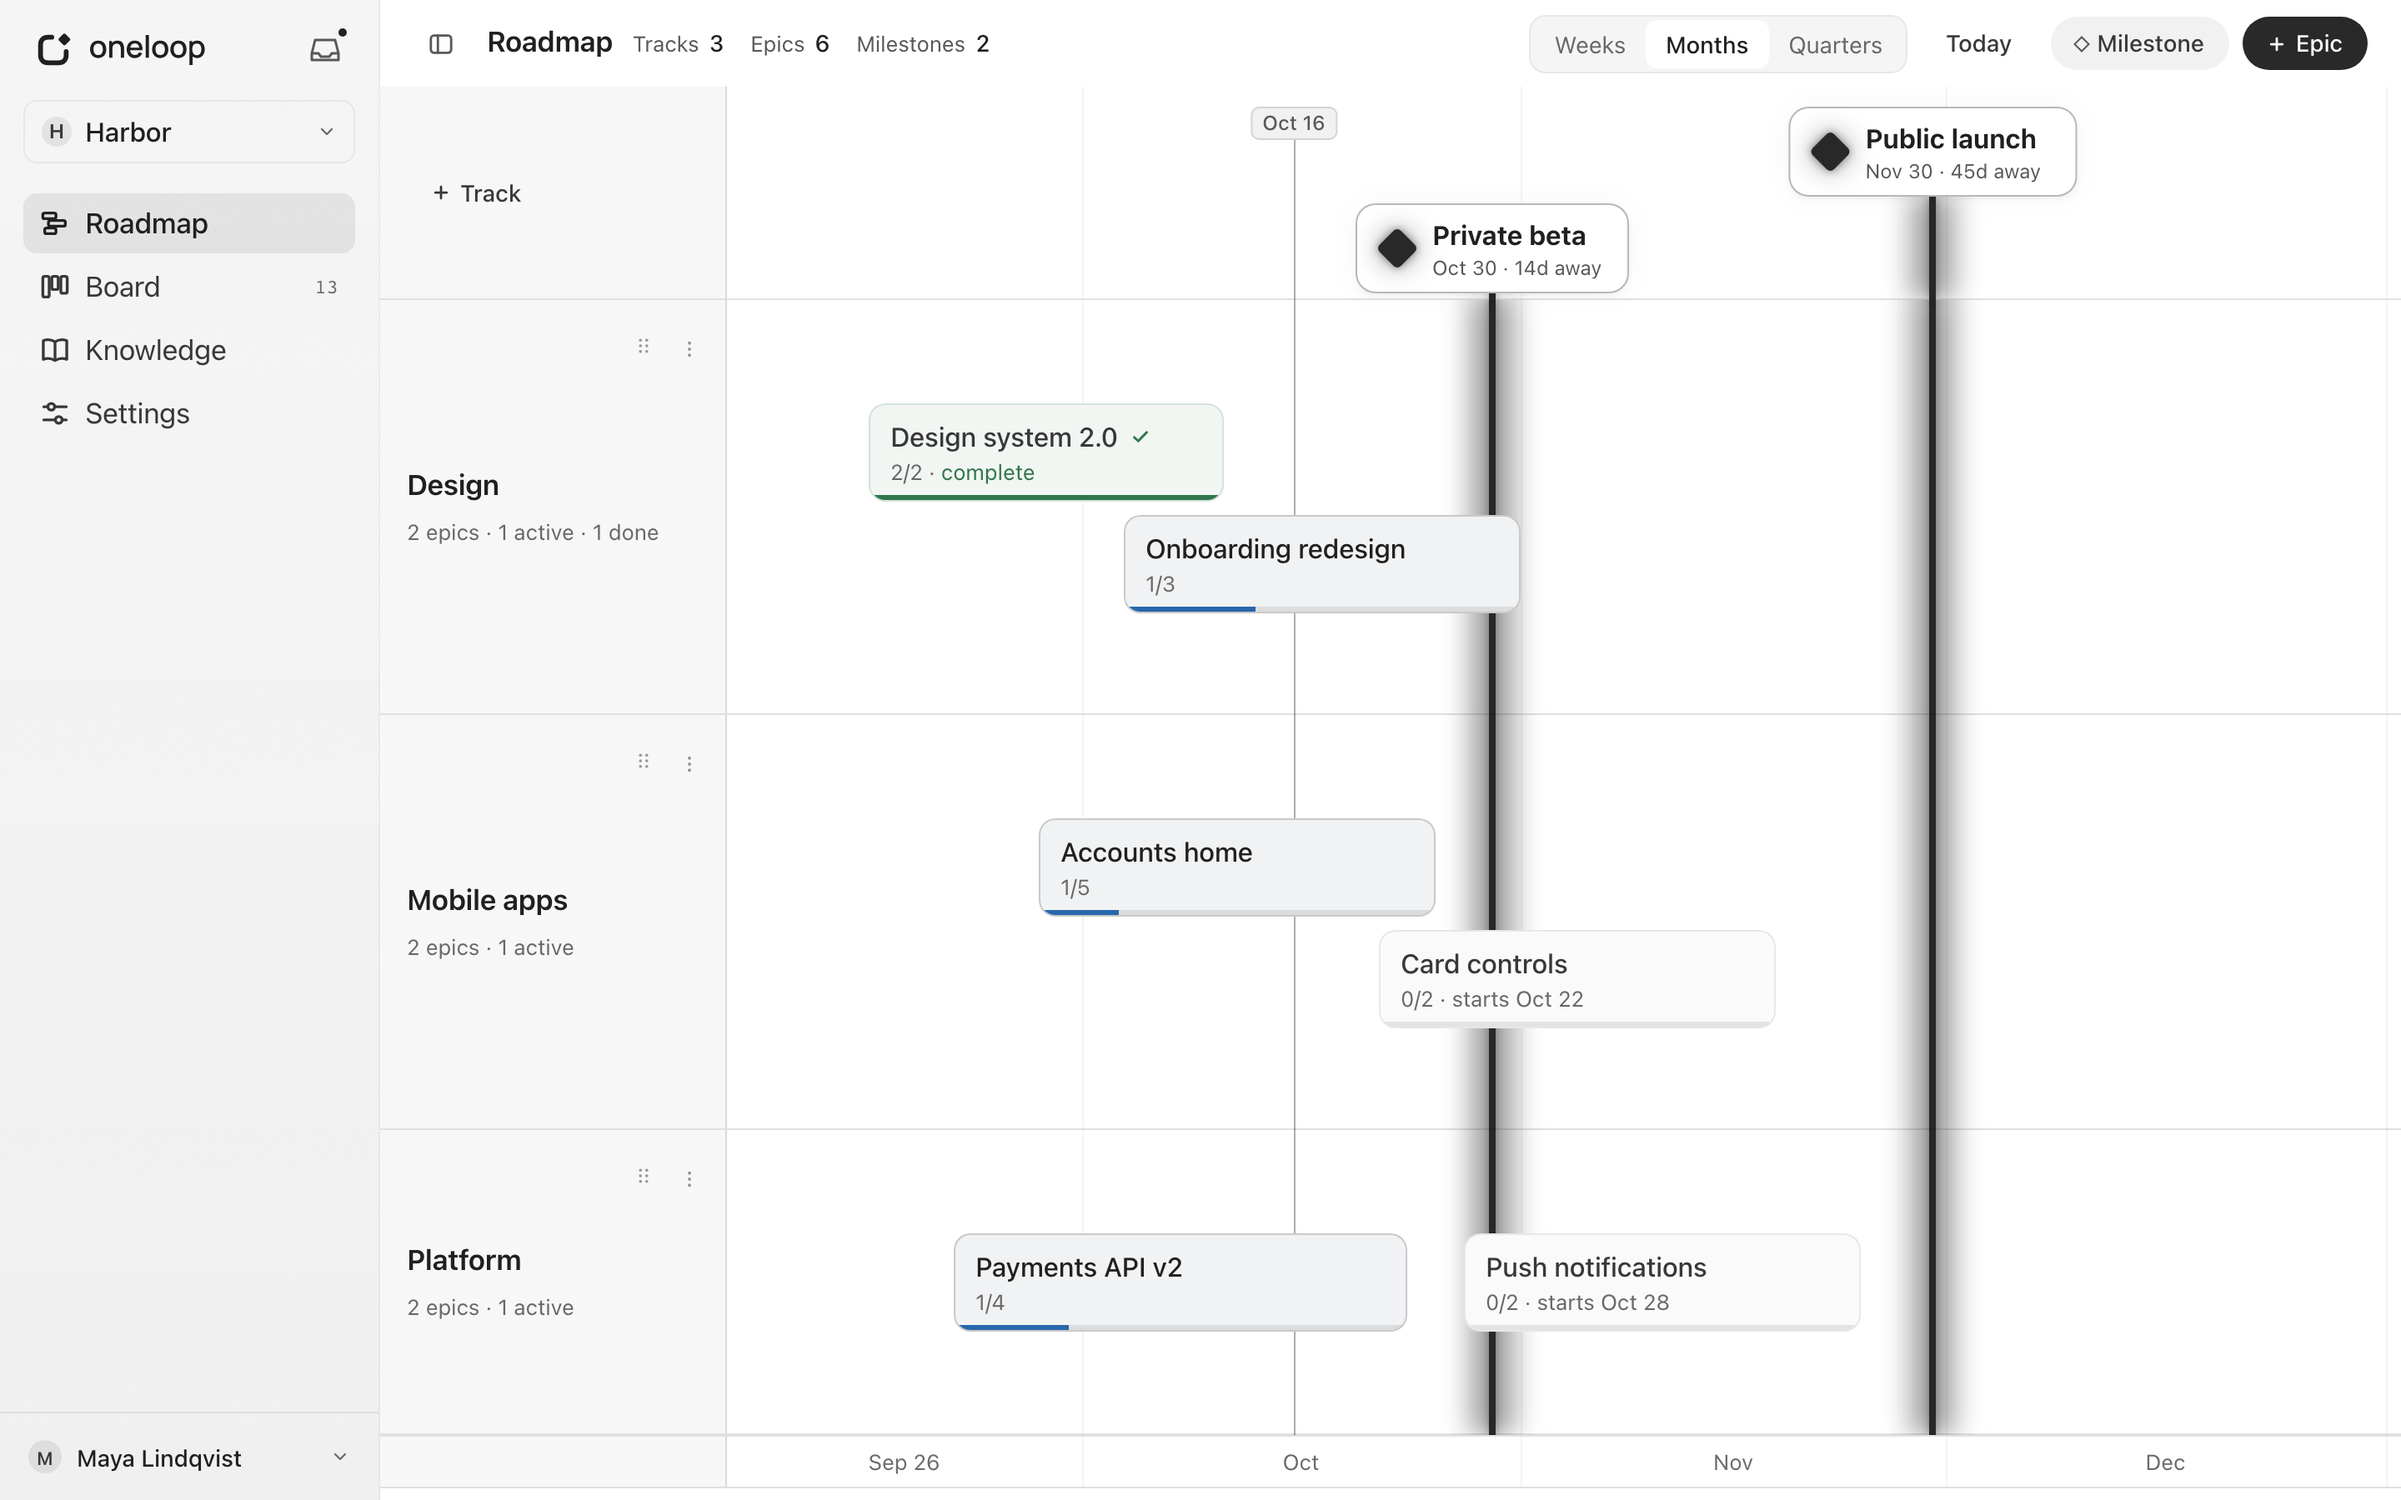
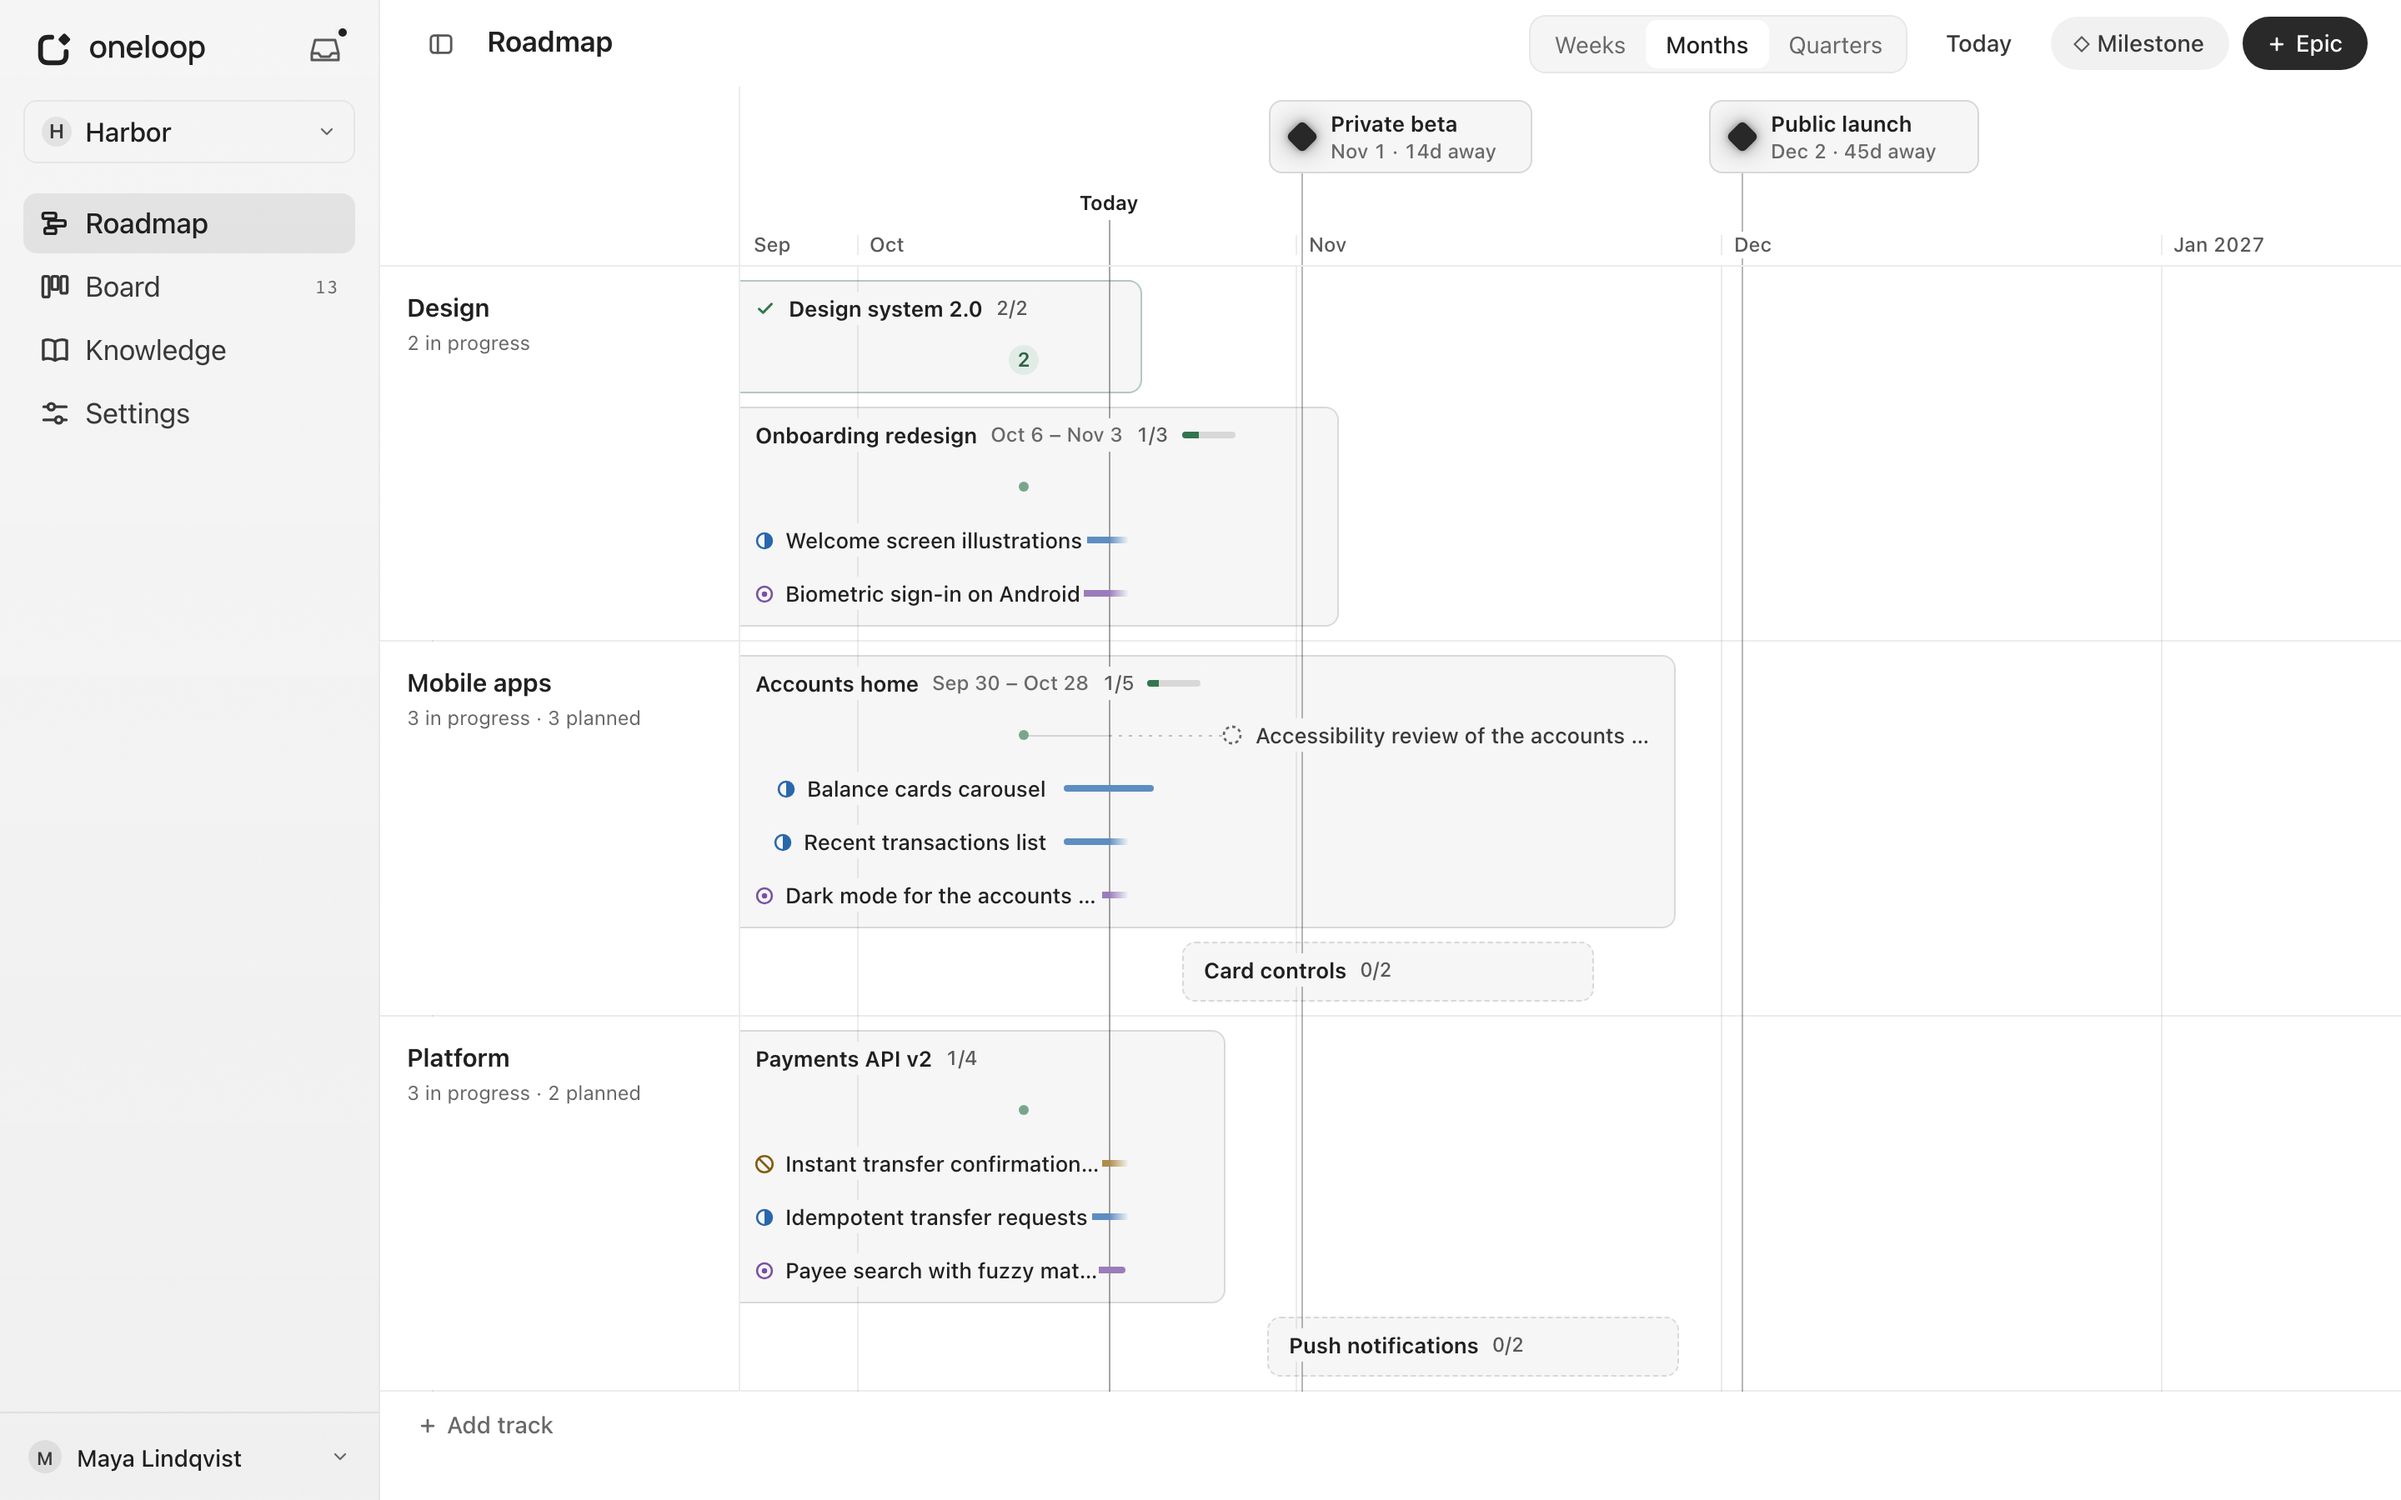
Describe the Roadmap's lanes in the user guide and changelog
The user guide explains the lanes, epics, milestones, Overdue, the
fitted scale, paging and keys. The Roadmap screenshot shows the new
page; the script that makes it no longer sends track descriptions,
which schema 9 removed.

diff --git a/docs/src/user-guide.md b/docs/src/user-guide.md
@@ -13,8 +13,8 @@
 Every task is on a track. An epic is optional: put a task in one when it is
 part of that piece of work. A task without an epic stays on its track.
 
-An epic without an end date is **ongoing**. Use ongoing epics for recurring
-work, such as "Small fixes".
+Give an epic an end date when its work has one. Work that never ends, such as
+small fixes, needs no epic: keep those tasks on their track.
 
 The address of the **Board**, the **Roadmap**, **Knowledge** and **Settings**
 names the project, so a refresh, a bookmark or a link opens the same project.
@@ -30,30 +30,65 @@ still comment. See [Permissions](admin-guide.md#permissions).
 
 ## Roadmap
 
-![The Roadmap: tracks on the left, epics as bars on a timeline, milestones as vertical lines and a marker for today](assets/screenshots/roadmap.png)
+![The Roadmap: a lane for each track with its done work as dots, its work in progress as bars and its dated plans as rings, epics as boxes around their work, and milestones above the lanes](assets/screenshots/roadmap.png)
 
-The Roadmap shows epics and milestones on a timeline, with one row for each
-track. It is the first page you see after you sign in.
+The Roadmap shows what each track has finished, is working on and has
+planned with a date, on a timeline with one lane for each track. It is the
+first page you see after you sign in.
 
-- Scroll to move through time. **Weeks**, **Months** and **Quarters** set the
-  scale, and so do the keys W, M and Q. A new scale keeps the epic you last
-  opened, or today, in view. To zoom freely, hold Ctrl (Cmd on macOS) while you
-  scroll, or pinch on a touchpad or touch screen. On a narrow screen, the scale
-  buttons make room for the others; pinch or use the keys instead. **Today**
-  takes you back to today.
-- The scale is part of the page's address, so a refresh keeps it and you can
-  share the Roadmap at that scale as a link. After a free zoom, the address
-  keeps the nearest scale. Changing the scale adds no step to the browser's
-  history.
-- Hover over an epic or a milestone to see its details. Click an epic to open
-  its progress, tasks and activity, or to edit it. Click a milestone to edit it.
-- Add work with **+ Track**, **+ Epic** and **Milestone**. To reorder tracks,
-  drag the grip next to a track's name, or focus the grip and use the arrow
-  keys, Home and End. A track's **⋮** menu renames or deletes it.
-- You can delete a track only when it has no tasks and no epics. Moving an epic
-  to another track moves its tasks with it. Deleting an epic keeps its tasks
-  on its track, without an epic, and **Undo** right after brings it back with
-  them.
+- **Done work** shows as dots on the day it was finished. Dots too close to
+  tell apart become a number; click it to list them.
+- **Work in progress**, in progress or in review, shows as one row per task: a
+  thin bar from when work started to its deadline, or to today, fading out,
+  without one. Each lane, and each epic, shows three at most: late work
+  first, then blocked work, then the nearest deadline. **+2 in progress**
+  lists the rest. Blocked work is amber. Late work has a red error icon and a
+  red end past its deadline.
+- **Plans with a deadline** show as dashed rings on their deadline, with their
+  title where it fits. Plans without a deadline stay on the **Board**.
+- A track's name says how many of its tasks are in progress and how many are
+  planned, with a deadline or not. A lane without any of this says **No dated
+  work**, or **No tasks yet** when its track has no tasks.
+- An **epic** is a box around its work, with its dates when it has an end
+  date, and how many of its tasks are done. An epic without an end date runs
+  from its first work to today. An epic with nothing on the timeline yet
+  shows just its name after today, or at its start when that is later.
+- **Milestones** are cards above the lanes, with a line down through them.
+  **Today** is the thin line under its label. When tasks are late, **Overdue**
+  and their number show next to the page's title; each click shows the next
+  late task, the longest overdue first.
+- Hover over a task, an epic or a milestone, or move the keyboard focus to it,
+  to see its details. Click it, or press Enter, to open the task, the epic's
+  progress, tasks and activity, or the milestone. Deadlines are set on the
+  task's page.
+- The Roadmap opens at the scale that shows the last three weeks of done work,
+  the work in progress and the next six weeks of dates. **Weeks**, **Months**
+  and **Quarters** set the scale, and so do the keys W, M and Q. A new scale
+  keeps the task or epic you last focused, or today, in view. To zoom freely,
+  hold Ctrl (Cmd on macOS) while you scroll, or pinch on a touchpad or touch
+  screen. On a narrow screen, the scale buttons make room for the others;
+  pinch or use the keys instead. **Today** takes you back to today.
+- A scale you choose is part of the page's address, so a refresh keeps it
+  and you can share the Roadmap at that scale as a link. After a free zoom,
+  the address keeps the nearest scale. Changing the scale adds no step to the
+  browser's history. Another project opens at the scale that fits its work.
+- Older done work and later plans load as you scroll to them.
+- With the keyboard, Tab reaches each track's grip, its **⋮** menu and its
+  timeline. In a timeline, the arrow keys, Home and End move between the
+  lane's epics and tasks, Up and Down move to the next lane, and Esc closes a
+  list.
+- On a phone, each track's name sits above its lane, and the Roadmap opens at
+  **Weeks**.
+- Add work with **+ Epic**, **Milestone** and **+ Add track** under the lanes.
+  To reorder tracks, drag the grip next to a track's name, or focus the grip
+  and use the arrow keys, Home and End. A track's **⋮** menu renames or
+  deletes it.
+- You can delete a track only when it has no tasks and no epics; **Delete
+  track** says how many to move or delete first. Moving an epic to another
+  track moves its tasks with it. Deleting an epic keeps its tasks on its
+  track, without an epic, and **Undo** right after brings it back with them.
+  With the **Board** permission, **New task** in an epic's details adds a task
+  to it.
 
 ### Epic status
 
@@ -68,9 +103,9 @@ epic can't get new tasks, but its existing tasks can still change. **Reopen**
 moves an epic back to In progress if some of its tasks are in progress or in
 review, and to Planning otherwise.
 
-An epic with an end date shows how many of its tasks are done. An ongoing epic
-shows the tasks closed this week, closed since it started, and still open.
-Weeks start on Monday.
+An epic with an end date shows how many of its tasks are done. An epic
+without one shows the tasks closed this week, closed since it started, and
+still open. Weeks start on Monday.
 
 ## Board
 

diff --git a/CHANGELOG.md b/CHANGELOG.md
@@ -10,8 +10,8 @@ All notable changes to oneloop are recorded here. The format follows
 
 - Stop oneloop, install the new version, and run
   `oneloop db migrate --backup-dir <directory>`. It saves a backup first, then
-  upgrades the database from schema 8 to schema 9. Older versions refuse a
-  schema 9 database. To go back to one, restore the backup that `db migrate`
+  upgrades the database from schema 8 to schema 10. Older versions refuse a
+  schema 10 database. To go back to one, restore the backup that `db migrate`
   made.
 - Every task is now on a track, and an epic is optional. The upgrade puts
   each task on its epic's track and keeps every task, epic and track. If you
@@ -53,9 +53,32 @@ All notable changes to oneloop are recorded here. The format follows
 - A task's page shows its **Track** beside its **Epic**. Moving the task to
   another track takes it out of its epic, and a note under **Epic** says why.
   **No epic** takes a task out of its epic.
+- An epic's details on the **Roadmap** offer **New task**, which adds a task
+  to the epic, to people with the **Board** permission.
 
 ### Changed
 
+- The **Roadmap** now shows each track's tasks on its timeline instead of
+  epic bars: done work as dots on the day it was finished, work in progress
+  as thin bars from when it started to its deadline, and plans with a
+  deadline as rings. Late work shows in red with an error icon and blocked
+  work in amber. Each lane shows three tasks in progress at most, the late
+  and blocked first, and **+N in progress** lists the rest. Epics are boxes
+  around their work, milestones are cards above the lanes, and a track's name
+  says how many tasks it has in progress and planned. **Overdue** with a
+  number shows when tasks are late, and steps through them. Every task, epic
+  and milestone has the same details on hover and keyboard focus, and the
+  arrow keys move through a lane. Plans without a deadline stay on the Board.
+- The **Roadmap** opens at the scale that fits the recent work, unless you
+  chose a scale; the address keeps a scale you chose, and another project
+  opens at its own fit. Older done work and later plans load as you scroll to
+  them. Its header no longer counts tracks, epics and milestones.
+- On a phone, each track's name on the **Roadmap** sits above its lane.
+- An epic's details no longer say **Ongoing**: an epic without an end date
+  shows from when it runs.
+- **Delete epic** says how many tasks stay on its track, or that the epic just
+  goes when it has none. **Edit epic** says that its tasks move with it to
+  another track.
 - Deleting an epic keeps its tasks on its track, without an epic. Before, an
   epic with tasks couldn't be deleted.
 - A track can be deleted only when it has no tasks and no epics, and the
@@ -105,8 +128,14 @@ All notable changes to oneloop are recorded here. The format follows
   their IDs.
 - A change made elsewhere while a task's **Status** list was open now shows
   once the list closes. Before, it showed only after focus left the page.
-- On the **Roadmap**, today's date no longer shows over **+ Track** when you
-  scroll past today, as on a phone. Milestone lines and today's line no longer
+- **Delete track** on the **Roadmap** now says first that a track must be
+  empty, and how many tasks and epics to move or delete, in the words the
+  server uses when it refuses. Before, it asked to confirm a delete that then
+  failed.
+- **Mark as done** on an epic now counts all of its open tasks, not only those
+  the page had loaded.
+- On the **Roadmap**, today's label no longer shows over the column of track
+  names when you scroll past today. Milestone lines and today's line no longer
   leave small marks on the column of track names either.
 - A change made elsewhere, such as in another tab, no longer takes focus off a
   track's grip or **⋮** button on the **Roadmap**. Esc in a track's menu now
@@ -125,11 +154,8 @@ All notable changes to oneloop are recorded here. The format follows
 - On a touch screen, a second finger now stops dragging a checklist item or a
   file, as it does for a track.
 - A track's grip and **⋮** on the **Roadmap** no longer cover the end of its
-  name: on a phone they sit above the name, and on a wider screen the name
-  keeps clear of them. A name shows two lines at most and then ends with an
-  ellipsis; its tip shows all of it, on hover or, from its grip or **⋮**, on
-  keyboard focus. A lane grows to fit a two-line name and the epic count
-  under it.
+  name. A long name ends with an ellipsis; its tip shows all of it, on hover
+  or, from its grip or **⋮**, on keyboard focus.
 - **Sign out** now signs out your other open tabs in the browser at once. They
   go straight to the sign-in page, without first saying that the session
   ended. They forget their project, the Board's filters and open dialogs too,
@@ -154,9 +180,8 @@ All notable changes to oneloop are recorded here. The format follows
 - Choosing another project on **Page not found** or **Access denied** now opens
   that project's page of the same kind, such as its **Knowledge**, or else its
   **Board**, and loads it with one request.
-- While another project's **Roadmap** loads, its header and the sidebar's
-  **Board** count show no numbers instead of 0. The header's counts of tracks,
-  epics and milestones now also follow changes made elsewhere.
+- While another project's **Roadmap** loads, the sidebar's **Board** count
+  shows no number instead of 0.
 - **Reload now** reloads the tab once. On a slow network, switching to another
   tab before the new page arrived made the tab start a second reload, and the
   new page then said **oneloop was updated**.
